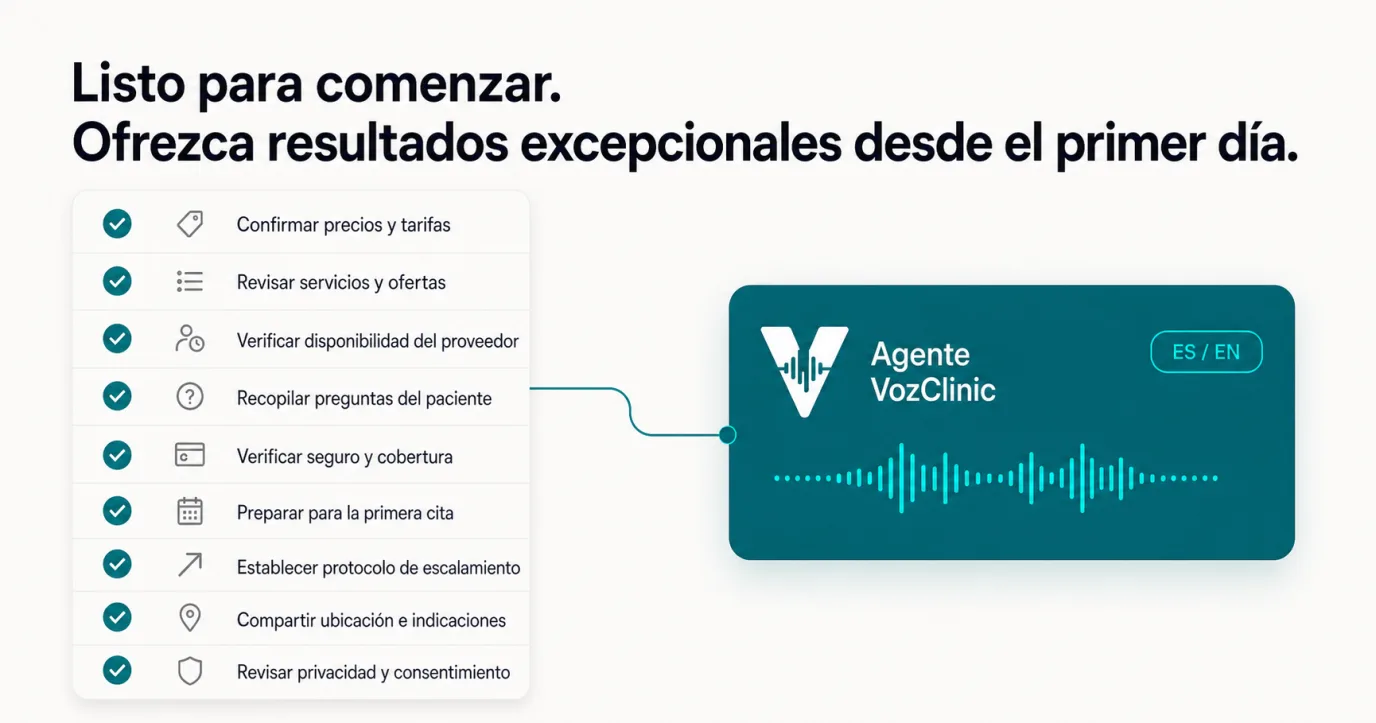
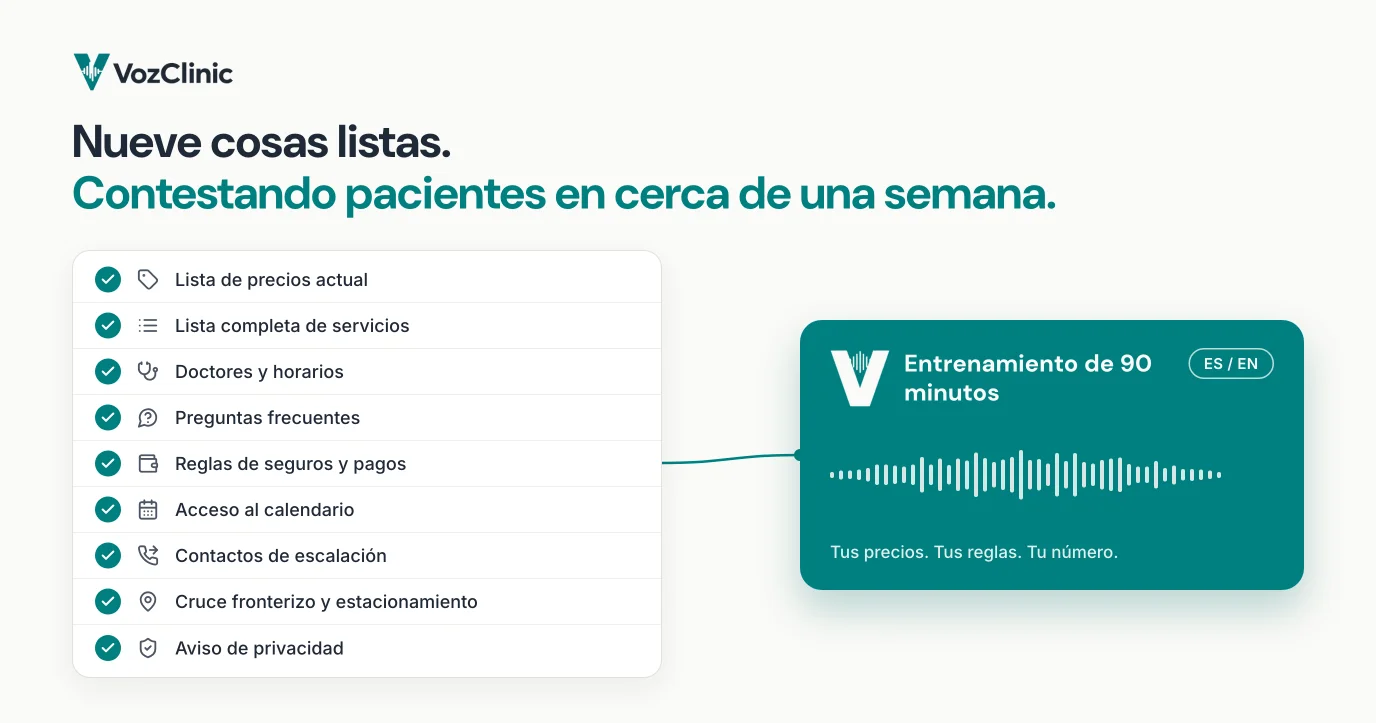
fix(blog): replace 9/12 AI-generated graphics with rendered on-brand versions
Rebuilds the speed-to-lead hero + inline curve and the onboarding checklist
hero (EN + ES) as HTML renders using the real VozClinic wordmark. Removes
the "Dental Center" label, the Spanglish and usted copy, the "devolucion"
mistranslation, and the unverified "< 2 sec" claim; checklist items now
match the article's nine items.

diff --git a/content/blog/es/velocidad-de-respuesta-turismo-medico.md b/content/blog/es/velocidad-de-respuesta-turismo-medico.md
@@ -35,7 +35,7 @@ Ahora súmale la realidad transfronteriza. Este paciente no te compara con la cl
 
 ## La cuenta que tu recepción no puede ganar
 
-![Una curva de intención: un agente de voz con IA bilingüe contesta en menos de 2 segundos, mientras la llamada de regreso a la mañana siguiente llega cuando la intención del paciente ya cayó.](/blog-assets/vozclinic-speed-to-lead-inline-ES.webp)
+![Una curva de intención: un agente de voz con IA bilingüe contesta en segundos, mientras la llamada de regreso a la mañana siguiente llega cuando la intención del paciente ya cayó.](/blog-assets/vozclinic-speed-to-lead-inline-ES.webp)
 
 Aquí viene la parte incómoda. Ni una excelente recepción bilingüe puede ganar la velocidad de respuesta de forma confiable, porque los momentos que más importan son justo los momentos en que menos disponible está. La consulta llega mientras tu recepcionista está con un paciente, o en la otra línea, o ya se fue, o llega en inglés mientras tu personal que habla español está saturado. Nada de eso es una falla de tu equipo. Es simplemente que la cobertura humana tiene huecos, y la intención del paciente no se agenda alrededor de tus huecos.
 

diff --git a/content/blog/en/speed-to-lead-medical-tourism.md b/content/blog/en/speed-to-lead-medical-tourism.md
@@ -35,7 +35,7 @@ Now layer on the cross-border reality. This patient is not comparing you to the 
 
 ## The math your front desk cannot beat
 
-![An intent-decay curve: a bilingual AI voice agent answers in under 2 seconds, while a next-morning callback arrives after the patient's intent has already dropped.](/blog-assets/vozclinic-speed-to-lead-inline-EN.webp)
+![An intent-decay curve: a bilingual AI voice agent answers in seconds, while a next-morning callback arrives after the patient's intent has already dropped.](/blog-assets/vozclinic-speed-to-lead-inline-EN.webp)
 
 Here is the uncomfortable part. Even a great bilingual front desk cannot win speed to lead reliably, because the moments that matter most are the moments they are least available. The inquiry lands while your receptionist is with a patient, or on the other line, or gone for the day, or it comes in English while your Spanish-speaking staff is slammed. None of that is a staffing failure. It is just that human coverage has gaps, and patient intent does not schedule itself around your gaps.
 
